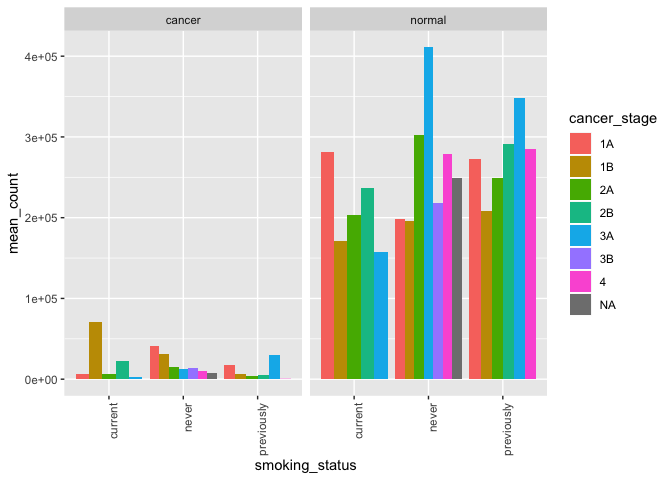
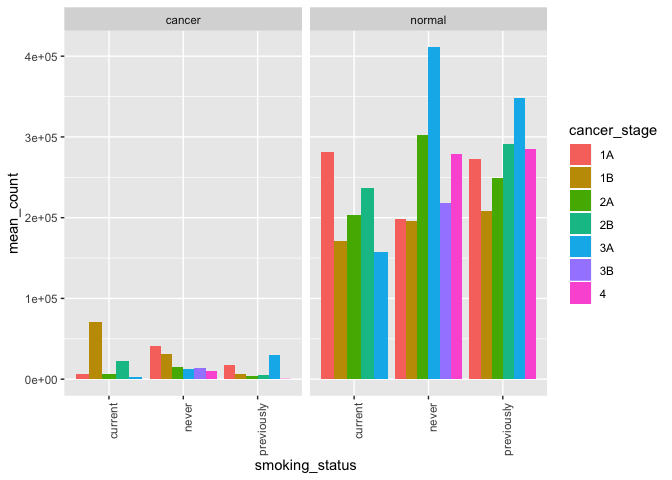
Commit markdown and figures

Changed region(s): [[0.5938, 0.0938, 0.6875, 0.8125], [0.8438, 0.2188, 1.0, 0.6562], [0.25, 0.75, 0.3125, 0.8125]]

diff --git a/Analysis_Report_02_RNASeq.md b/Analysis_Report_02_RNASeq.md
@@ -50,7 +50,7 @@ In addition to a minimum of 4-5 figures/tables (and associated captions), you sh
 
 ![](Analysis_Report_02_RNASeq_files/figure-markdown_github/make-barplot-of-highly-expressed-genes-1.png)
 
-**Figure 1**: The average gene expression levels in cancer and normal tissues. Catagorized by smoking status, and colored by cancer stages. All four genes are highly expressed in the normal tissues, but they have different average expression levels in cancer tissues, and different cancer stages. EEF1A1 gene is relativly highly expressed in the cancer tisse. SFTPA1, SFTPA2, and SFTPC is downregulated in cancer tissues, in almost all cancer stages. SFTPC is mostly down regulated throughout all cancer stages.
+**Figure 1**: The average gene expression levels in cancer and normal tissues. Categorized by smoking status, and colored by cancer stages. All four genes are highly expressed in the normal tissues, but they have different average expression levels in cancer tissues, and different cancer stages. EEF1A1 gene is relatively highly expressed in the cancer tissue. SFTPA1, SFTPA2, and SFTPC is down regulated in cancer tissues, in almost all cancer stages. SFTPC is mostly down regulated throughout all cancer stages.
 
 ``` r
 # how SFTPC gene is expressed in all individuals(mean count of gene expression)
@@ -61,6 +61,7 @@ In addition to a minimum of 4-5 figures/tables (and associated captions), you sh
 joined_table %>%
   filter(genename %in% "SFTPC") %>%
   filter(smoking_status != "unknown") %>%
+  filter(cancer_stage != "unknown") %>%
   group_by(normal_or_cancer, cancer_stage, smoking_status) %>%
   summarise(mean_count = mean(counts_lengthscaledtpm)) %>%
   ggplot(aes(x = smoking_status,
@@ -72,7 +73,9 @@ joined_table %>%
                          hjust = 1))
 ```
 
-![](Analysis_Report_02_RNASeq_files/figure-markdown_github/barplot-of-SFTPC-expression-levels-smoking-cancer_stage-1.png) **Figure2**:
+![](Analysis_Report_02_RNASeq_files/figure-markdown_github/barplot-of-SFTPC-expression-levels-smoking-cancer_stage-1.png)
+
+**Figure2**: In general, all cancer tissues has SFTPC gene significantly down regulated. Specifically, in never smokers, the SFTPC has showed some persistent to the down regulation in all cancer stages, especially later stages. For current and previous smokers, SFTPC are more down regulated than never smokers, with some outlier. For example, the 1B stage for the current smokers and the 3A stage for the previouslt smokers.
 
 ``` r
 # Examine the average expression levels of SFTPC gene
@@ -95,7 +98,9 @@ joined_table %>%
   facet_grid(~ normal_or_cancer)
 ```
 
-![](Analysis_Report_02_RNASeq_files/figure-markdown_github/scatterplot-of-SFTPC-expression-smoking-age-1.png) **Figure3**: Overall, SFTPC gene is highly down regulated in the cancer tissues. But highly expressed in normal tissues. Also, along with the smoking status of individals. In cancer tisses, smoking will futher decrease the gene epxression levels along with increment of age at diagnosis. For previous and current smokers, SFTPC gene express in close to zero level and not change along with age change in the cancer tissue. In the cancer tissue from never smoker, the SFTPC expression level remains low, but increase with age increase. In normal tissues, for never smoker, the gene expression levels slightly decrease along with the increase of age. For normal tissues in current smokers, the gene expression is significantly drceased, while age increases. For normal tissue in previous smoker, the gene expression level increase, while age increases.
+![](Analysis_Report_02_RNASeq_files/figure-markdown_github/scatterplot-of-SFTPC-expression-smoking-age-1.png)
+
+**Figure3**: Overall, SFTPC gene is highly down regulated in the cancer tissues. But highly expressed in normal tissues. Also, along with the smoking status of individuals. In cancer tissues, smoking will further decrease the gene expression levels along with increment of age at diagnosis. For previous and current smokers, SFTPC gene express in close to zero level and not change along with age change in the cancer tissue. In the cancer tissue from never smoker, the SFTPC expression level remains low, but increase with age increase. In normal tissues, for never smoker, the gene expression levels slightly decrease along with the increase of age. For normal tissues in current smokers, the gene expression is significantly decreased, while age increases. For normal tissue in previous smoker, the gene expression level increase, while age increases.
 
 ``` r
 # How is the SFTPC gene expressed in cancer and normal tisse
@@ -117,28 +122,33 @@ joined_table %>%
   facet_grid(~ normal_or_cancer)
 ```
 
-![](Analysis_Report_02_RNASeq_files/figure-markdown_github/scatterplot-of-SFTPC-gene-expression-gender-age-1.png) **Figure3**:
+![](Analysis_Report_02_RNASeq_files/figure-markdown_github/scatterplot-of-SFTPC-gene-expression-gender-age-1.png)
+
+**Figure3**: Firstly, for both male and female, SFTPC gene is down regulated in cancer tissue. In spit of, of the smoking stuats. In the cancer tisse, female has a increase trending of gene expression along with the increase of age, in contrast, male has a decrase gene expression level along with the age increase. As for the normal tissue, both male and female has an increase of SFTPC gene expression levels. Also, male has a higher average gene expression levels than females.
 
 ``` r
-# To indicate the sample distribution of gender
-# within each cancer stages and smoking status
-# for individals has both cancer and normal tissue sampled
+# Due to Figure2, 3 has different trending of SFTPC gene expression
+# in normal tissues, to investigate this different
+# this plot shows how in different gender, and smoking status
+# will influence the SFTPC genes expression levels over age
 
 joined_table %>%
   filter(genename == "SFTPC") %>%
   filter(smoking_status != "unknown") %>%
   filter(normal_rnaseq == "yes") %>%
-  group_by(normal_or_cancer, gender, smoking_status,cancer_stage) %>%
+  filter(normal_or_cancer == "normal") %>%
+  group_by(normal_or_cancer, gender, smoking_status, cancer_stage, age_at_diagnosis) %>%
   summarise(mean_count = mean(counts_lengthscaledtpm)) %>%
-  ggplot(aes(x = cancer_stage,
+  ggplot(aes(x = age_at_diagnosis,
              y = mean_count,
-             fill = gender,
-             color = gender)) +
-  geom_col(position = "dodge") +
-  facet_grid(~ smoking_status)
+             color = smoking_status)) +
+  geom_point() +
+   geom_smooth(method = "lm",
+              alpha = 0) +
+  facet_grid(~ gender)
 ```
 
-![](Analysis_Report_02_RNASeq_files/figure-markdown_github/barplot-of-sample-dsitribution-in-gender-1.png) **Figure4**:
+![](Analysis_Report_02_RNASeq_files/figure-markdown_github/scaterplot-of-expression-level-of-gender-age-smoking-1.png) **Figure4**:
 
 ![](Analysis_Report_02_RNASeq_files/figure-markdown_github/make-boxplot-of-highly-expressed-genes-1.png)
 
